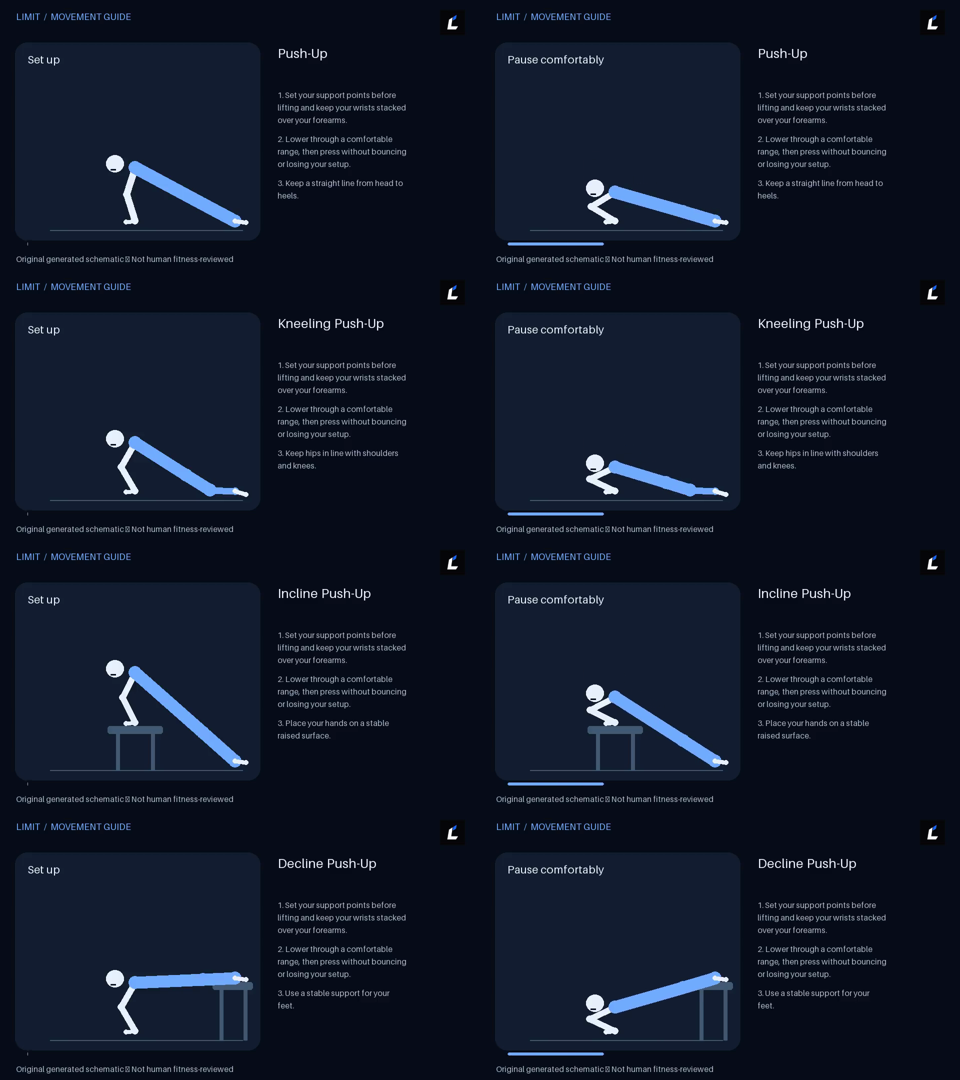
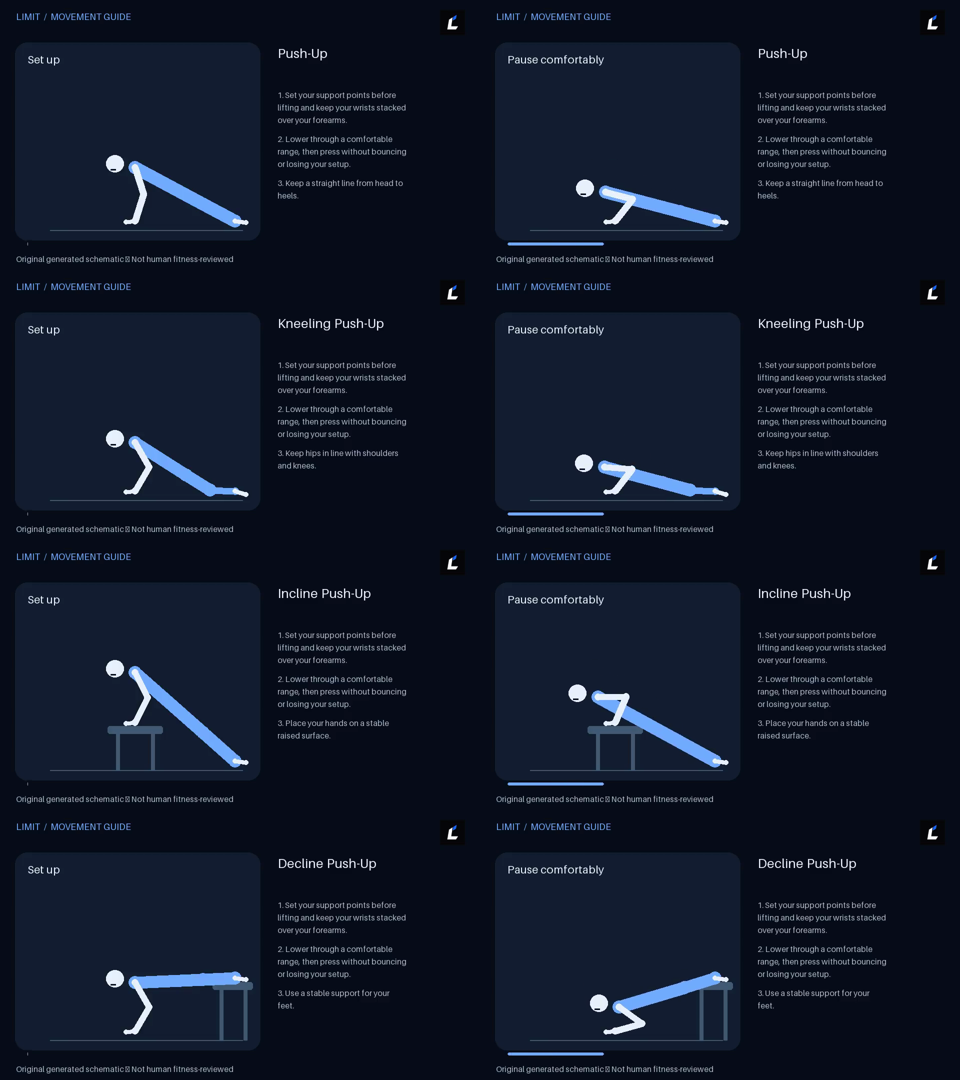
Correct push-up geometry and verify every media decode (#49)

diff --git a/scripts/media/render.py b/scripts/media/render.py
@@ -76,13 +76,16 @@ def draw_pose(d,kind,option,u):
    d.rounded_rectangle((425,344,505,359),5,fill=FAR)
    for x in (442,490):d.line((x,359,x,460),fill=FAR,width=8)
   top={'floor':335,'knees':345,'incline-bench':265,'decline-bench':345}[option]
-  shoulder=(270,top+49*u)
   support=(420,440) if option=='knees' else foot
+  shoulder_y=top+49*u
+  body_length=math.hypot(support[0]-270,support[1]-top)
+  shoulder=(support[0]-math.sqrt(body_length**2-(support[1]-shoulder_y)**2),shoulder_y)
   hip=(shoulder[0]+.68*(support[0]-shoulder[0]),shoulder[1]+.68*(support[1]-shoulder[1]))
-  elbow=ik(shoulder,wrist,56,56,side=-1)
+  if abs(math.dist(shoulder,hip)-.68*body_length)>1e-6 or abs(math.dist(hip,support)-.32*body_length)>1e-6:raise ValueError('Push-up body segment changed length')
+  elbow=ik(shoulder,wrist,56,56,side=1)
+  limb(d,[shoulder,hip,support],BLUE,25)
   limb(d,[shoulder,elbow,wrist],INK,13)
   line(d,wrist,(wrist[0]-18,wrist[1]+2),INK,9)
-  limb(d,[shoulder,hip,support],BLUE,25)
   if option=='knees':
    line(d,support,foot,BLUE,14)
    line(d,foot,(492,449),INK,9)

diff --git a/docs/completion-ledger.md b/docs/completion-ledger.md
@@ -5,7 +5,8 @@
 | Finding | Severity | Decision / change | Evidence | Remaining owner action |
 |---|---|---|---|---|
 | GitHub deployment did not pass disposable mailbox configuration to hosted acceptance | High for enabled-email release | Merged [PR #46](https://github.com/dylanlasensky/limit/pull/46): pass the seven `LIMIT_TEST_*` values from matching GitHub environment variables/secrets to the testing and production deploy steps; disabled-email releases need no mailbox credentials. | [PR CI](https://github.com/dylanlasensky/limit/actions/runs/37044616342) and [main CI](https://github.com/dylanlasensky/limit/actions/runs/37045573216) passed; enabled-email hosted mode still awaits real controlled mailboxes. | Set environment-scoped disposable mailbox credentials only after real delivery acceptance; see [email setup](email-setup.md). |
-| Thirteen push-up family variations lacked demonstrated media, including four tractable support setups | Medium | Added exact-key floor, kneeling, incline-bench and decline-bench motion templates and distinct posters/videos. Retained text fallback and blocked labels for unsupported grip/load/support/ballistic variants. | Four separate H.264 renders, full decode, full eight-second Chromium playback, and setup/descent/bottom/return frame inspection; `media:check --files` reports 14 technical, 351 blocked, zero human-approved. Hosted upload and playback still pending. | Genuine fitness review tied to exact checksums; no owner approval is asserted. |
+| Thirteen push-up family variations lacked demonstrated media, including four tractable support setups | Medium | [PR #48](https://github.com/dylanlasensky/limit/pull/48) added exact-key floor, kneeling, incline-bench and decline-bench motion templates and distinct posters/videos. Retained text fallback and blocked labels with exact defects for the nine unsupported grip/load/support/ballistic variants. | Four separate H.264 renders and [visual frame evidence](evidence/push-up-family.png); 14 technical, 351 blocked, zero human-approved. The initial four files were staged in preview before a geometry review found torso stretching; testing D1 was restored to the prior 10-video manifest on 2026-10-02. The rejected immutable objects remain unreferenced pending retention review. | Genuine fitness review tied to exact checksums; no owner approval is asserted. |
+| Pre-release media review found body stretching and incomplete technical/hosted playback assertions | High for media fidelity | Corrected shoulder path to keep torso/leg lengths constant around fixed support; moved elbow bend toward the torso and redrew arms visibly. Added checksum-bound probe/full-decode evidence for every MP4 and exact-key full-playback browser acceptance. | Corrected four MP4s each played from 0 to 8 seconds in Chromium with 192 decoded frames at 960×540; 14 files probed for 2,688 decoded frames; full local validator repeats probe and checksum comparison. CI and hosted acceptance remain pending for this corrective change. | Human fitness review and physical-device playback remain separate. |
 | Hosted acceptance used undeliverable `example.invalid` signups even when email verification is enabled | High for email activation | Merged [PR #44](https://github.com/dylanlasensky/limit/pull/44): API and browser suites select three distinct, preverified disposable accounts when `/api/config` reports enabled email, require an explicit deletion guard, and retain synthetic signups only while email is disabled. Delivered verification/reset remain a separate required gate. | [PR CI](https://github.com/dylanlasensky/limit/actions/runs/37039855376) and [merged main CI](https://github.com/dylanlasensky/limit/actions/runs/37041020659) passed. Independent Mac validation: 474 unit tests, 12 local API checks, 182 browser passes/eight intentional skips, production build, security gate, lint/types, native bridge tests and offline browser smoke. Disabled-email mode only has hosted evidence so far; enabled-email delivery and the new branch remain unverified. Earlier release baseline: [PR #43 acceptance](https://github.com/dylanlasensky/limit/pull/43#issuecomment-5946096278). | Owned sender/domain, separate restricted keys through Wrangler prompts, controlled mailboxes and real delivered-email acceptance; see [email setup](email-setup.md). |
 | Expo workout had written cues but no video playback for technically checked media | Medium | Merged [PR #45](https://github.com/dylanlasensky/limit/pull/45): SDK 57 `expo-video` now loads only after a user action, offers manual play/pause, exposes loading/error/retry, caption and written fallback, and labels technical versus genuine human review separately. Blocked movements receive no substitute video. | SDK-matched [Expo video docs](https://docs.expo.dev/versions/v57.0.0/sdk/video/); native lint/types, Expo Doctor 21/21, and iOS/Android/web exports passed locally; [PR CI](https://github.com/dylanlasensky/limit/actions/runs/37043644944) passed. Physical-device playback and accessibility remain unverified. | Real development build and device review; no signed/OTA native release while the node-forge exception remains. |
 | Account-wide free-usage inventory before another code release | High for spending boundary | No additional R2 objects uploaded. Four existing private Standard buckets hold 750 objects and about 31.4 MB combined; both private buckets are empty. | Wrangler bucket inventory and Cloudflare GraphQL account aggregates on 2026-10-02: 860 R2 operations and 572 Worker invocations since 2026-10-01, zero Worker errors. Other resources and billing require continued dashboard review; R2 allowance is not a hard account-wide dollar cap. | Do not enable paid plans or automatic upgrades. |

diff --git a/docs/exercise-media.md b/docs/exercise-media.md
@@ -2,7 +2,7 @@
 
 The canonical inventory is `media/manifest.json`: 365 exact exercise keys. The renderer now generates 14 original side-view schematics and 365 posters with free local Pillow/FFmpeg tooling. The other 351 movements are **blocked**, not completed videos: the renderer has no reliable exact setup, grip, support and motion template for them. Each CSV/manifest row records the specific exercise and equipment. Written instructions remain available. No video has human fitness approval.
 
-The second movement-family batch adds floor, kneeling, hands-elevated bench and feet-elevated bench push-ups. Each has a fixed hand and lower-body support, a distinct setup and a controlled descent/return. All four exact keys were rendered individually, fully decoded, played through in Chromium from 0 to 8 seconds, and checked at setup, descent, bottom and return frames. These are **technical** checks only. Close-grip, weighted, deficit, suspension, pike, handstand and plyometric push-ups remain blocked because this side-view template cannot faithfully show their grip, added load, support geometry, inverted line or ballistic flight/landing.
+The second movement-family batch adds floor, kneeling, hands-elevated bench and feet-elevated bench push-ups. Each has a fixed hand and lower-body support, fixed torso and leg segment lengths, a distinct setup and a controlled descent/return. A pre-release geometry review caught stretching in the first draft; the renderer now moves the shoulder on a fixed-radius path around its foot or knee support and checks segment lengths at every rendered frame. All four corrected exact keys must be fully decoded, played through in Chromium from 0 to 8 seconds, and checked at setup, descent, bottom and return frames before publishing. These are **technical** checks only. Close-grip, weighted, deficit, suspension, pike, handstand and plyometric push-ups remain blocked because this side-view template cannot faithfully show their grip, added load, support geometry, inverted line or ballistic flight/landing.
 
 The [side-by-side setup and bottom frames](evidence/push-up-family.png) show the four exact variants used for visual inspection.
 
@@ -14,13 +14,15 @@ Use Python 3.12+ and Node 24 from the repository root:
 python3 -m venv .venv-media
 .venv-media/bin/pip install -r scripts/media/requirements.txt
 node scripts/media/catalog.mjs
-.venv-media/bin/python scripts/media/render.py --ffmpeg "$(.venv-media/bin/python -c 'import imageio_ffmpeg; print(imageio_ffmpeg.get_ffmpeg_exe())')"
+export FFMPEG="$(.venv-media/bin/python -c 'import imageio_ffmpeg; print(imageio_ffmpeg.get_ffmpeg_exe())')"
+.venv-media/bin/python scripts/media/render.py --ffmpeg "$FFMPEG"
+node scripts/media/probe.mjs --write
 node scripts/media/validate.mjs --files
 npm run media:review
 python3 -m http.server 8090 --directory media-output --bind 127.0.0.1
 ```
 
-Open `http://127.0.0.1:8090/review.html`. Rendering uses Pillow's bundled font, exact-key allowlists, controlled motion phases, the approved master logo, fixed 960×540 framing, 24 fps, eight seconds, silent H.264/yuv420p and fast-start MP4. All generated videos are fully decoded after encoding. Encoding may vary across FFmpeg/platform builds; checksums identify the exact output, and versions derive from content hashes. Large binaries stay in ignored `media-output`, never Git. Use only the pinned tools; review tool/font licenses when redistributing the renderer or binaries.
+Open `http://127.0.0.1:8090/review.html`. Rendering uses Pillow's bundled font, exact-key allowlists, controlled motion phases, the approved master logo, fixed 960×540 framing, 24 fps, eight seconds, silent H.264/yuv420p and fast-start MP4. `media/technical-evidence.json` records each MP4 checksum and actual probe/full-decode result. `validate.mjs --files` repeats the decode and compares it with that checksum-bound record; the ordinary CI check verifies the recorded checksums and metadata because large binaries are ignored by Git. Encoding may vary across FFmpeg/platform builds; checksums identify the exact output, and versions derive from content hashes. Large binaries stay in ignored `media-output`, never Git. Use only the pinned tools; review tool/font licenses when redistributing the renderer or binaries.
 
 Technical checks establish mapping, bytes and playback only. Inspect the starting, peak and return frames for every supported template before publishing. Never reuse an approximate movement for a different catalog key. Add a new exact-key template only when equipment, support, grip, limb path and comfortable range can be represented faithfully. Complex cable/machine/rotation, unilateral balance and ballistic movements remain blocked until that is possible. Test every parameterized variation, not only its family.
 
